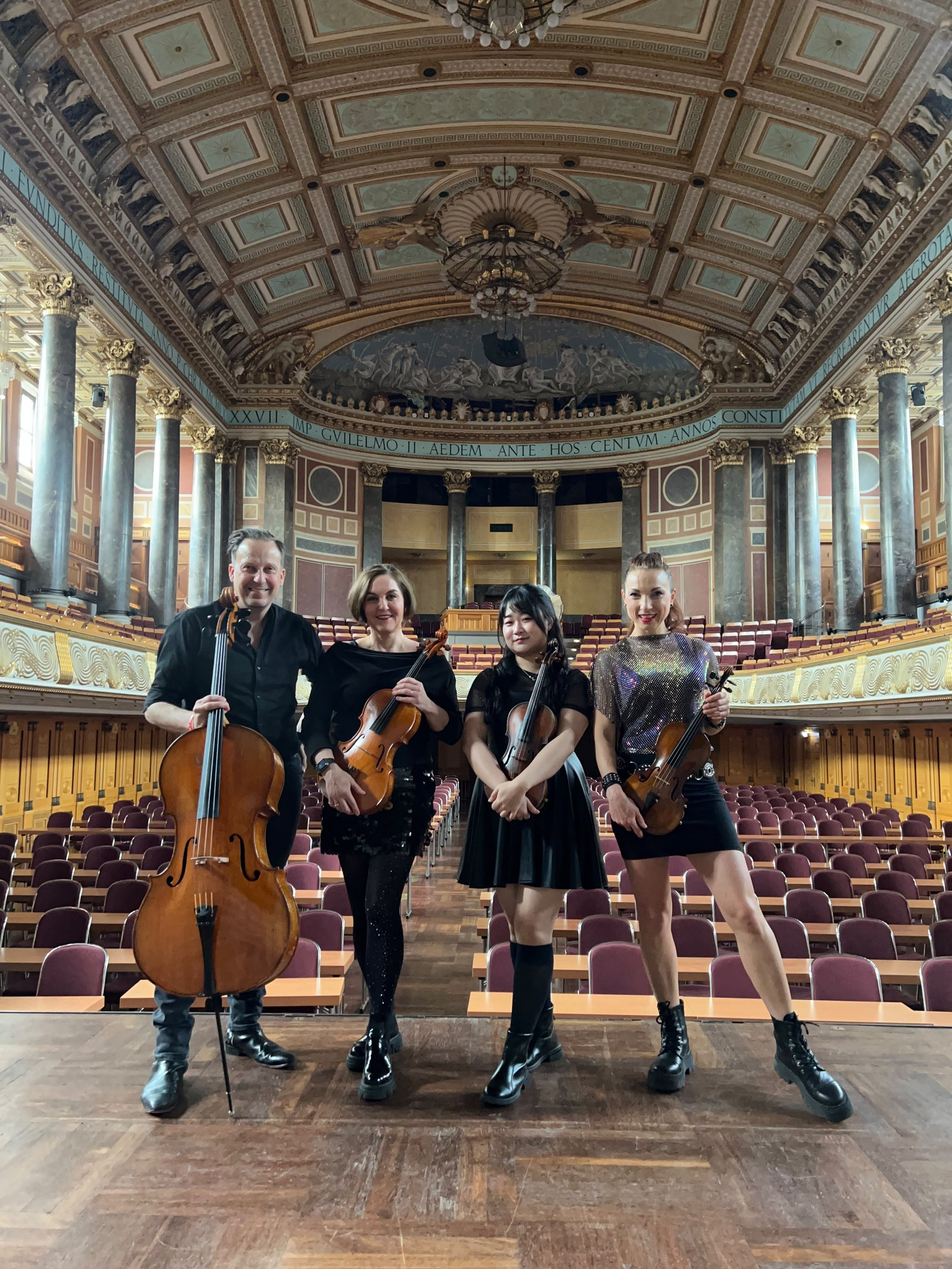
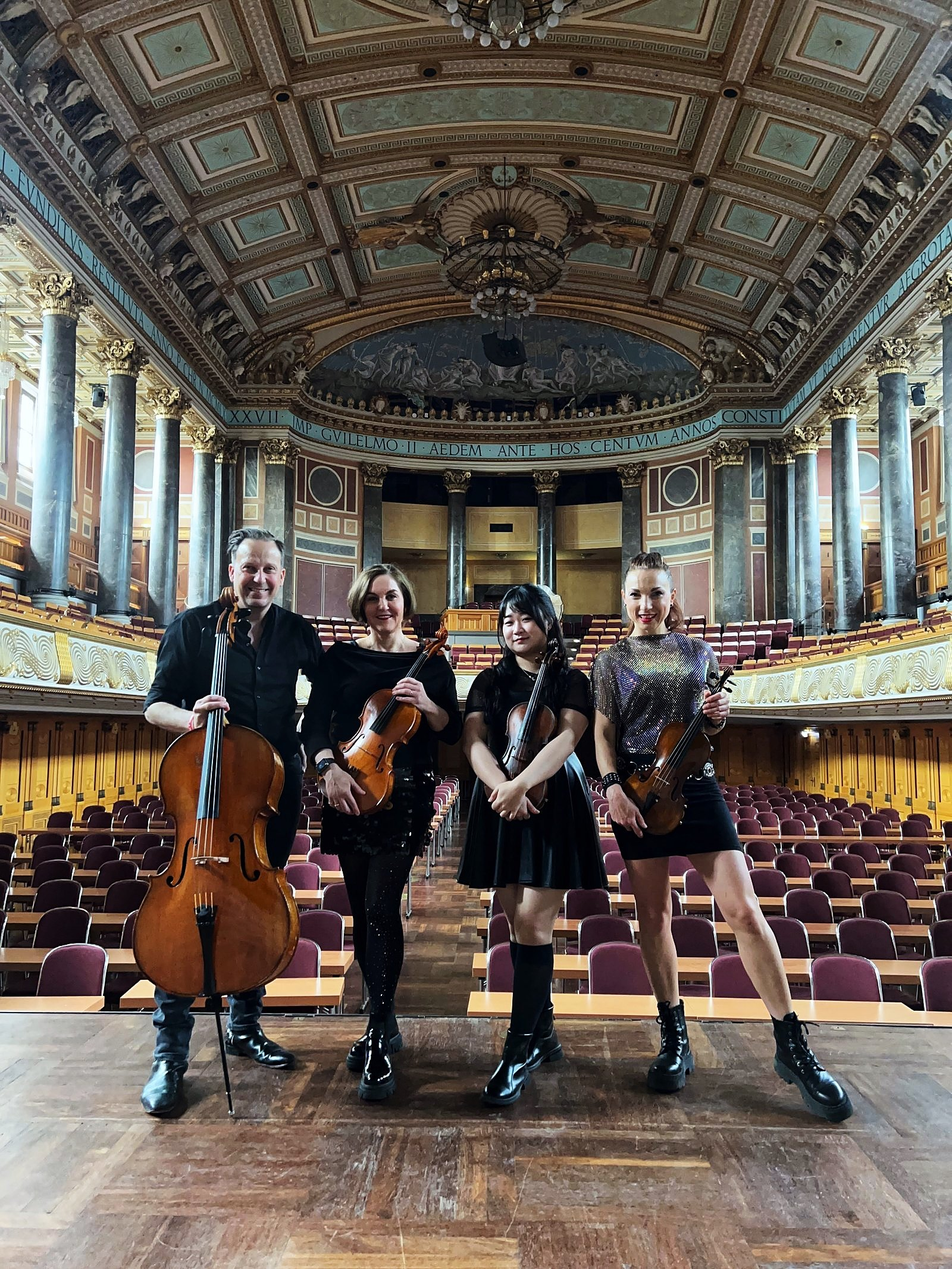
Stand 2026-09-27 21:29

diff --git a/stil.css b/stil.css
@@ -433,7 +433,8 @@ a.termin__ort:hover { color: var(--akzent); }
   .auftakt__innen { padding-left: var(--s2); padding-right: var(--s2); }
   main > h1, main > h2, main > h3,
   main > p, main > ul, main > blockquote,
-  .termine, .filter, .raster, .stimmen, .termine__trenner {
+  .termine, .filter, .raster, .stimmen, .termine__trenner,
+  .bildband, .textbild, .bildpaar {
     padding-left: var(--s2); padding-right: var(--s2);
   }
 }
@@ -848,4 +849,148 @@ main > h1 + .besetzung { border-top: 0; margin-top: 0; padding-top: 0; }
   text-transform: uppercase;
   color: var(--tinte-matt);
   margin: .35rem 0 0;
+}
+
+/* --- Bilder aus Konzertsaelen --------------------------------------------- */
+/* Regel: Portraets grau, Orte farbig. Das Entgrauen gleicht Portraets aus
+   verschiedenen Quellen einander an. Ein Saalfoto hat keine Geschwister,
+   denen es gleichen muesste, und sein Gold sagt, wo gespielt wird.
+
+   Ein einziges goldenes Bild auf der ganzen Seite, nicht eins pro Seite.
+   Gold wirkt nur, solange es selten ist; ein zweites Kurhausbild zwei
+   Klicks weiter macht aus der Ausnahme ein Motiv. Deshalb steht der
+   zweite Kurhaussaal auf der Kontaktseite in Grau. */
+
+/* Auftakt: das Kurhausfoto hat das quadratische Gewoelbebild abgeloest.
+   Jenes hatte 920 Bildpunkte und einen Orangestich, der Hauttoene
+   verschiebt -- kitschiger als das goldene Neue. */
+.auftakt__bild img {
+  display: block;
+  width: 100%;
+  height: auto;
+  /* 4:5 statt der nativen 3:4: in der halben Seitenspalte waere 3:4 auf
+     einem 800 px hohen Laptop unten abgeschnitten. 4:5 kostet nur
+     133 px Kassettendecke. */
+  aspect-ratio: 4 / 5;
+  object-fit: cover;
+  /* Unten verankern: Buehnenkante und Fuesse tragen die Komposition,
+     die Decke vertraegt den Anschnitt. */
+  object-position: 50% 100%;
+}
+
+.auftakt__zeile,
+.bildband__zeile {
+  margin-top: var(--s1);
+  font-family: var(--grotesk);
+  font-size: .875rem;
+  /* --tinte-matt auf --papier: 7,19:1 hell, 7,57:1 dunkel. Beide AA. */
+  color: var(--tinte-matt);
+}
+
+/* Bildband: ein Querformat in voller Seitenspalte, nicht in voller
+   Fensterbreite. Die Quelle ist 1600 px breit; bei 68rem (1088 px) ergibt
+   das 1,47-fache Dichte. Randlos ueber einen 1440-px-Schirm mit doppelter
+   Dichte braeuchte 2880 px und braeche das 38/68-Raster. */
+.bildband {
+  max-width: var(--spalte);
+  margin: var(--s5) auto;
+  /* Derselbe Seitenabstand wie bei Ueberschriften, Terminliste und Raster.
+     Ohne ihn liegt das Bild am Fensterrand, die Ueberschrift darueber aber
+     nicht -- die Kante verraet den Nachbau. */
+  padding: 0 var(--s3);
+}
+.bildband__bild {
+  display: block;
+  width: 100%;
+  height: auto;
+  /* 3:2 schneidet das Schild der Stiftung Buchkunst unten ab. Fremde
+     Schrift im Bild konkurriert mit unserer. */
+  aspect-ratio: 3 / 2;
+  object-fit: cover;
+  object-position: 50% 40%;
+}
+
+/* Ausnahme von "kein Rahmen", einzeln begruendet: Die Wand im Treppenhaus
+   misst 244/244/242, --papier liegt bei 246/244/241. Ohne Linie
+   verschwindet im hellen Modus die obere und linke Bildkante, und das Bild
+   wird zum Fleck statt zur Flaeche. Die Linie ist die Kante, kein Schmuck.
+   Im dunklen Modus ist die Kante von selbst da. */
+@media (prefers-color-scheme: light) {
+  .bildband__bild--hell {
+    outline: 1px solid var(--linie);
+    outline-offset: -1px;
+  }
+}
+
+/* Nebenbild in Textspaltenbreite: es ordnet sich dem Text unter, statt
+   eine zweite Buehne neben dem Auftakt aufzumachen. */
+/* Die aeussere Breite ist die Seitenspalte, damit das Bild an Ueberschrift
+   und Terminliste anschliesst; die innere ist die Textspalte, damit es sich
+   dem Inhalt unterordnet. Nur die Textbreite zu nehmen haette das Bild
+   mittig ueber eine linksbuendige Liste gesetzt. */
+.textbild {
+  max-width: var(--spalte);
+  margin: var(--s4) auto;
+  padding: 0 var(--s3);
+}
+.textbild__bild {
+  display: block;
+  width: 100%;
+  max-width: var(--spalte-text);
+  height: auto;
+  aspect-ratio: 4 / 3;
+  object-fit: cover;
+}
+
+/* Bildpaar Kontakt: Spalten 16:9 heisst 4:3 neben 3:4 bei gleicher Hoehe,
+   beide ohne Beschnitt. Entgraut, weil das eine farbige Goldbild der
+   Startseite gehoert; hier zaehlen Saal und Garderobe, nicht das Gold. */
+.bildpaar {
+  max-width: var(--spalte);
+  margin: var(--s5) auto;
+  padding: 0 var(--s3);
+  display: grid;
+  grid-template-columns: 16fr 9fr;
+  gap: var(--s2);
+}
+.bildpaar__bild {
+  display: block;
+  width: 100%;
+  height: auto;
+  filter: grayscale(1);
+}
+@media (max-width: 40rem) {
+  .bildpaar { grid-template-columns: 1fr; }
+}
+
+/* --- Uebergaenge ---------------------------------------------------------- */
+/* Ausnahme vom Leitsatz "keine Animationen". Sie war ohnehin nie absolut:
+   das Zitat-Karussell blendet seit jeher in 1,1 s. Erlaubt ist nur, was
+   einen Zustandswechsel weicher macht, den jemand selbst ausgeloest hat.
+   Nichts bewegt sich von allein, nichts erscheint beim Scrollen. Linear,
+   weil Beschleunigungskurven auf 120 ms nicht wahrnehmbar sind. */
+a,
+button {
+  transition: color 120ms linear, background-color 120ms linear, border-color 120ms linear;
+}
+
+/* Der Ortsfilter blendet ein, statt zu springen. @starting-style greift
+   beim Wechsel von display:none, also auch beim hidden-Attribut, das
+   filter.js setzt -- das Skript bleibt unveraendert. Aeltere Browser
+   schalten wie bisher hart um.
+
+   Die Zitate stehen hier bewusst nicht: sie haben in .stimmen--wechsel
+   bereits einen Uebergang von 1,1 s. Eine zweite Regel mit 200 ms wuerde
+   ihn verkuerzen, nicht ergaenzen. */
+.termin {
+  transition: opacity 200ms linear;
+}
+@starting-style {
+  .termin { opacity: 0; }
+}
+
+/* Wer reduzierte Bewegung eingestellt hat, bekommt die Seite ohne jeden
+   Uebergang. */
+@media (prefers-reduced-motion: reduce) {
+  *, *::before, *::after { transition: none !important; }
 }

diff --git a/ensemble.html b/ensemble.html
@@ -7,7 +7,7 @@
 <meta name="description" content="Die Musikerinnen und Musiker des Divites Quartetts.">
 <link rel="canonical" href="https://divites-quartett.com/ensemble.html">
 <meta name="robots" content="noindex, nofollow">
-<link rel="stylesheet" href="stil.css?v=2c0c7cc9">
+<link rel="stylesheet" href="stil.css?v=ba8feca5">
 
 </head>
 <body>
@@ -28,17 +28,21 @@
 
 <main id="inhalt" class="seite--ensemble">
 <h1>Das Ensemble</h1>
+<figure class="bildband">
+<img class="bildband__bild bildband__bild--hell" src="bilder/quartett_literaturhaus_treppe.jpg?v=b134be78" width="1600" height="1242" loading="lazy" alt="Vier Mitglieder des Quartetts, alle in Schwarz, steigen im Gaensemarsch die Marmortreppe des Literaturhauses Frankfurt hinauf, jeweils eine Faust erhoben">
+<figcaption class="bildband__zeile">Literaturhaus Frankfurt</figcaption>
+</figure>
 <section class="besetzung">
 <h2 class="besetzung__instrument">Violine</h2>
 <ul class="besetzung__personen">
 <li class="mitglied">
-<img class="portraet" src="bilder/portraet_marta.jpg?v=7d649ffd" width="520" height="693" alt="Marta Danilkovich, Violinistin, Gruenderin und Leiterin des Divites Quartetts" loading="lazy">
+<img class="portraet" src="bilder/portraet_marta.jpg?v=f9303f66" width="380" height="507" alt="Marta Danilkovich, Violinistin, Gruenderin und Leiterin des Divites Quartetts" loading="lazy">
 <h3>Marta Danilkovich</h3>
 <p class="rolle">Gründerin und Leitung</p>
 <p>Violinistin aus Minsk. Geige seit dem sechsten Lebensjahr, Studium an der Belarussischen Staatlichen Musikakademie, seit 2013 in Frankfurt. 2019 erste Plätze in Salzburg, Amsterdam und Belgrad, im selben Jahr ein Auftritt in der Weill Recital Hall der Carnegie Hall. Sie hat das Divites Quartett gegründet und leitet es. Ihre Geige baute M. Deconet um 1750 in Venedig, eine Leihgabe des Mainzer Geigenbaumeisters Peter Körner. Nebenher leitet sie eine Metal-Band. Die wurde 2015 zur besten Band Hessens gewählt.</p>
 </li>
 <li class="mitglied">
-<img class="portraet" src="bilder/portraet_namhyun.jpg?v=28521d74" width="520" height="693" alt="Namhyun Kim, Violinistin des Divites Quartetts" loading="lazy">
+<img class="portraet" src="bilder/portraet_namhyun.jpg?v=4b77d4f6" width="380" height="507" alt="Namhyun Kim, Violinistin des Divites Quartetts" loading="lazy">
 <h3>Namhyun Kim</h3>
 <p>Violinistin, Jahrgang 1995, aus Südkorea. 2019 fünfter Preis beim Lipizer-Wettbewerb im italienischen Gorizia. 2022 Konzertexamen bei Sophia Jaffé in Frankfurt, das Examenskonzert war Mendelssohns e-Moll-Konzert mit dem Philharmonischen Orchester Gießen. Seit Herbst 2021 im Quartett. Filmmusik ist ihre eigentliche Liebe, das sagt sie selbst.</p>
 </li>
@@ -54,7 +58,7 @@
 <p>[PLATZHALTER] Der Text folgt. Anders als bei den übrigen liegt zu ihr im Netz nichts vor, das sich zweifelsfrei zuordnen ließe. Lieber kein Text als ein falscher.</p>
 </li>
 <li class="mitglied">
-<img class="portraet" src="bilder/portraet_carolina.jpg?v=540f62b0" width="520" height="693" alt="Carolina Rybka, Bratschistin des Divites Quartetts" loading="lazy">
+<img class="portraet" src="bilder/portraet_carolina.jpg?v=1481a61a" width="380" height="507" alt="Carolina Rybka, Bratschistin des Divites Quartetts" loading="lazy">
 <h3>Carolina Rybka</h3>
 <p>[PLATZHALTER] Der Text folgt.</p>
 </li>
@@ -69,7 +73,7 @@
 <p>Cellist, Komponist, Arrangeur. ECHO Klassik 2011. Über hundert Konzerte im Jahr, in Europa, den USA und Asien. Studium in Karlsruhe und Luzern. Mehr als fünfzig eigene Werke. Spielt in der Elbphilharmonie, im Barbican Centre London und überall sonst auch.</p>
 </li>
 <li class="mitglied">
-<img class="portraet" src="bilder/portraet_attila.jpg?v=64a14597" width="520" height="693" alt="Attila Hündöl, Cellist des Divites Quartetts" loading="lazy">
+<img class="portraet" src="bilder/portraet_attila.jpg?v=738df5ce" width="380" height="507" alt="Attila Hündöl, Cellist des Divites Quartetts" loading="lazy">
 <h3>Attila Hündöl</h3>
 <p>Cellist. Er hat spät angefangen, mit dreizehn. Aufgehalten hat ihn das nicht: Studium in Freiburg bei Adriana Contino, seit 1999 im Philharmonischen Orchester der Stadt Gießen, seit 2014 dort Solocellist. Gastspiele in Koblenz, Freiburg und Siegen, Konzertreisen nach Frankreich, Mexiko und Brasilien. CD-Aufnahmen mit den Heidelberger Sinfonikern und dem Mannheimer Mozartorchester.</p>
 </li>

diff --git a/kontakt.html b/kontakt.html
@@ -7,7 +7,7 @@
 <meta name="description" content="Anfragen und Buchungen fuer das Divites Quartett.">
 <link rel="canonical" href="https://divites-quartett.com/kontakt.html">
 <meta name="robots" content="noindex, nofollow">
-<link rel="stylesheet" href="stil.css?v=2c0c7cc9">
+<link rel="stylesheet" href="stil.css?v=ba8feca5">
 
 </head>
 <body>
@@ -29,8 +29,12 @@
 <main id="inhalt" class="seite--kontakt">
 <h1>Kontakt</h1>
 <p>Anfragen für Konzerte und Engagements.</p>
-<p><strong>E-Mail:</strong> <mark class="platzhalter">[PLATZHALTER]</mark></p>
+<p><strong>E-Mail:</strong> <a href="mailto:info@danilkovich.com">info@danilkovich.com</a></p>
 <p>Ein Kontaktformular gibt es bewusst nicht. Es würde personenbezogene Daten verarbeiten und die Datenschutzerklärung erheblich verlängern, ohne dass es mehr könnte als eine Mailadresse.</p>
+<div class="bildpaar">
+<img class="bildpaar__bild" src="bilder/quartett_kurhaus_profil.jpg?v=47ece7eb" width="1600" height="1200" loading="lazy" alt="Das Quartett im Profil auf der Buehne des leeren Kurhaussaals, den Blick nach oben ins Gewoelbe">
+<img class="bildpaar__bild" src="bilder/quartett_literaturhaus_abendgarderobe.jpg?v=f3e07662" width="1600" height="2133" loading="lazy" alt="Vier Mitglieder des Ensembles in Abendgarderobe auf der Treppe im Literaturhaus Frankfurt">
+</div>
 </main>
 
 <footer class="fuss">

diff --git a/impressum.html b/impressum.html
@@ -7,7 +7,7 @@
 <meta name="description" content="Impressum und Anbieterkennzeichnung.">
 <link rel="canonical" href="https://divites-quartett.com/impressum.html">
 <meta name="robots" content="noindex, nofollow">
-<link rel="stylesheet" href="stil.css?v=2c0c7cc9">
+<link rel="stylesheet" href="stil.css?v=ba8feca5">
 
 </head>
 <body>
@@ -36,7 +36,6 @@
 <p><strong>Verantwortlich nach § 18 Abs. 2 MStV:</strong> Marta Danilkovich, Anschrift wie oben</p>
 <aside class="hinweis"><strong class="hinweis__marke">Achtung</strong> <span>Strasse und Hausnummer fehlen und muessen vor der Veroeffentlichung eingetragen werden. § 5 DDG verlangt eine ladungsfaehige Anschrift; Postleitzahl und Ort allein genuegen dafuer nicht. Uebernommen ist der Stand von marta.danilkovich.com, wo die Strasse ebenfalls fehlt — das macht die Angabe nicht vollstaendiger, sondern verdoppelt nur denselben Mangel.</span></aside>
 <h2>Bildnachweise</h2>
-<p>Gruppenfoto: [PLATZHALTER: Name des Fotografen]</p>
 <p>Konzertfotos Kurhaus Wiesbaden und Literaturhaus Frankfurt: [PLATZHALTER: Name des Fotografen]</p>
 <p>Porträts Marta Danilkovich, Attila Hündöl, Carolina Rybka und Namhyun Kim: Ausschnitte aus dem Konzertfoto Kurhaus Wiesbaden, derselbe Urheber</p>
 <p>Porträt Larissa Nagel: Philippe Stier</p>

diff --git a/index.html b/index.html
@@ -7,7 +7,7 @@
 <meta name="description" content="Streichquartett, 2020 gegruendet. Klassik, Filmmusik und Rock in eigenen Arrangements.">
 <link rel="canonical" href="https://divites-quartett.com/">
 <meta name="robots" content="noindex, nofollow">
-<link rel="stylesheet" href="stil.css?v=2c0c7cc9">
+<link rel="stylesheet" href="stil.css?v=ba8feca5">
 <script type="application/ld+json">
 {
   "@context": "https://schema.org",
@@ -54,7 +54,8 @@
 <p class="auftakt__unter">Vivaldi und Metallica. Vier Streichinstrumente, keine Verstärker.</p>
 </div>
 <figure class="auftakt__bild">
-<img src="bilder/divites_quartett_gruppe.jpg?v=a196e1bc" width="920" height="920" alt="Das Divites Quartett mit Streichinstrumenten in einem Gewoelbe, umgeben von hunderten Kerzen">
+<img src="bilder/quartett_kurhaus_frontal.jpg?v=8467ac1f" width="1600" height="2133" fetchpriority="high" alt="Die vier Musikerinnen und Musiker des Divites Quartetts stehen mit Violoncello, Bratsche und zwei Violinen auf der Buehne des leeren Friedrich-von-Thiersch-Saals im Kurhaus Wiesbaden">
+<figcaption class="auftakt__zeile">Kurhaus Wiesbaden, Friedrich-von-Thiersch-Saal</figcaption>
 </figure>
 </div>
 </section>

diff --git a/datenschutz.html b/datenschutz.html
@@ -7,7 +7,7 @@
 <meta name="description" content="Datenschutzerklaerung.">
 <link rel="canonical" href="https://divites-quartett.com/datenschutz.html">
 <meta name="robots" content="noindex, nofollow">
-<link rel="stylesheet" href="stil.css?v=2c0c7cc9">
+<link rel="stylesheet" href="stil.css?v=ba8feca5">
 
 </head>
 <body>
@@ -41,7 +41,7 @@
 <p>Sie können jedes Video auch direkt bei YouTube ansehen — unter jeder Fläche steht dafür ein Link.</p>
 <h2>Ihre Rechte</h2>
 <p>Sie haben das Recht auf Auskunft, Berichtigung, Löschung und Einschränkung der Verarbeitung sowie ein Beschwerderecht bei einer Aufsichtsbehörde.</p>
-<p><strong>Kontakt:</strong> [PLATZHALTER: E-Mail]</p>
+<p><strong>Kontakt:</strong> info@danilkovich.com</p>
 <aside class="hinweis"><strong class="hinweis__marke">Achtung</strong> <span>Dieser Text ist ein Entwurf und keine Rechtsberatung. Vor der Veröffentlichung prüfen lassen, besonders wenn Videos eingebettet werden.</span></aside>
 </main>
 

diff --git a/termine.html b/termine.html
@@ -7,7 +7,7 @@
 <meta name="description" content="Alle kommenden Konzerte des Divites Quartetts, nach Ort filterbar.">
 <link rel="canonical" href="https://divites-quartett.com/termine.html">
 <meta name="robots" content="noindex, nofollow">
-<link rel="stylesheet" href="stil.css?v=2c0c7cc9">
+<link rel="stylesheet" href="stil.css?v=ba8feca5">
 <script type="application/ld+json">
 {
     "@context": "https://schema.org",
@@ -446,6 +446,9 @@
 
 <main id="inhalt" class="seite--termine">
 <h1>Termine</h1>
+<figure class="textbild">
+<img class="textbild__bild" src="bilder/quartett_literaturhaus_pose.jpg?v=40154911" width="1600" height="1200" loading="lazy" alt="Das Quartett posiert ausgelassen am Gelaender der Marmortreppe im Literaturhaus Frankfurt">
+</figure>
 <div class="filter" data-filter hidden>
   <span class="filter__titel" id="filter-titel">Stadt:</span>
   <div class="filter__knoepfe" role="group" aria-labelledby="filter-titel">

diff --git a/musik.html b/musik.html
@@ -7,7 +7,7 @@
 <meta name="description" content="Hoerproben und Videomitschnitte des Divites Quartetts.">
 <link rel="canonical" href="https://divites-quartett.com/musik.html">
 <meta name="robots" content="noindex, nofollow">
-<link rel="stylesheet" href="stil.css?v=2c0c7cc9">
+<link rel="stylesheet" href="stil.css?v=ba8feca5">
 
 </head>
 <body>
